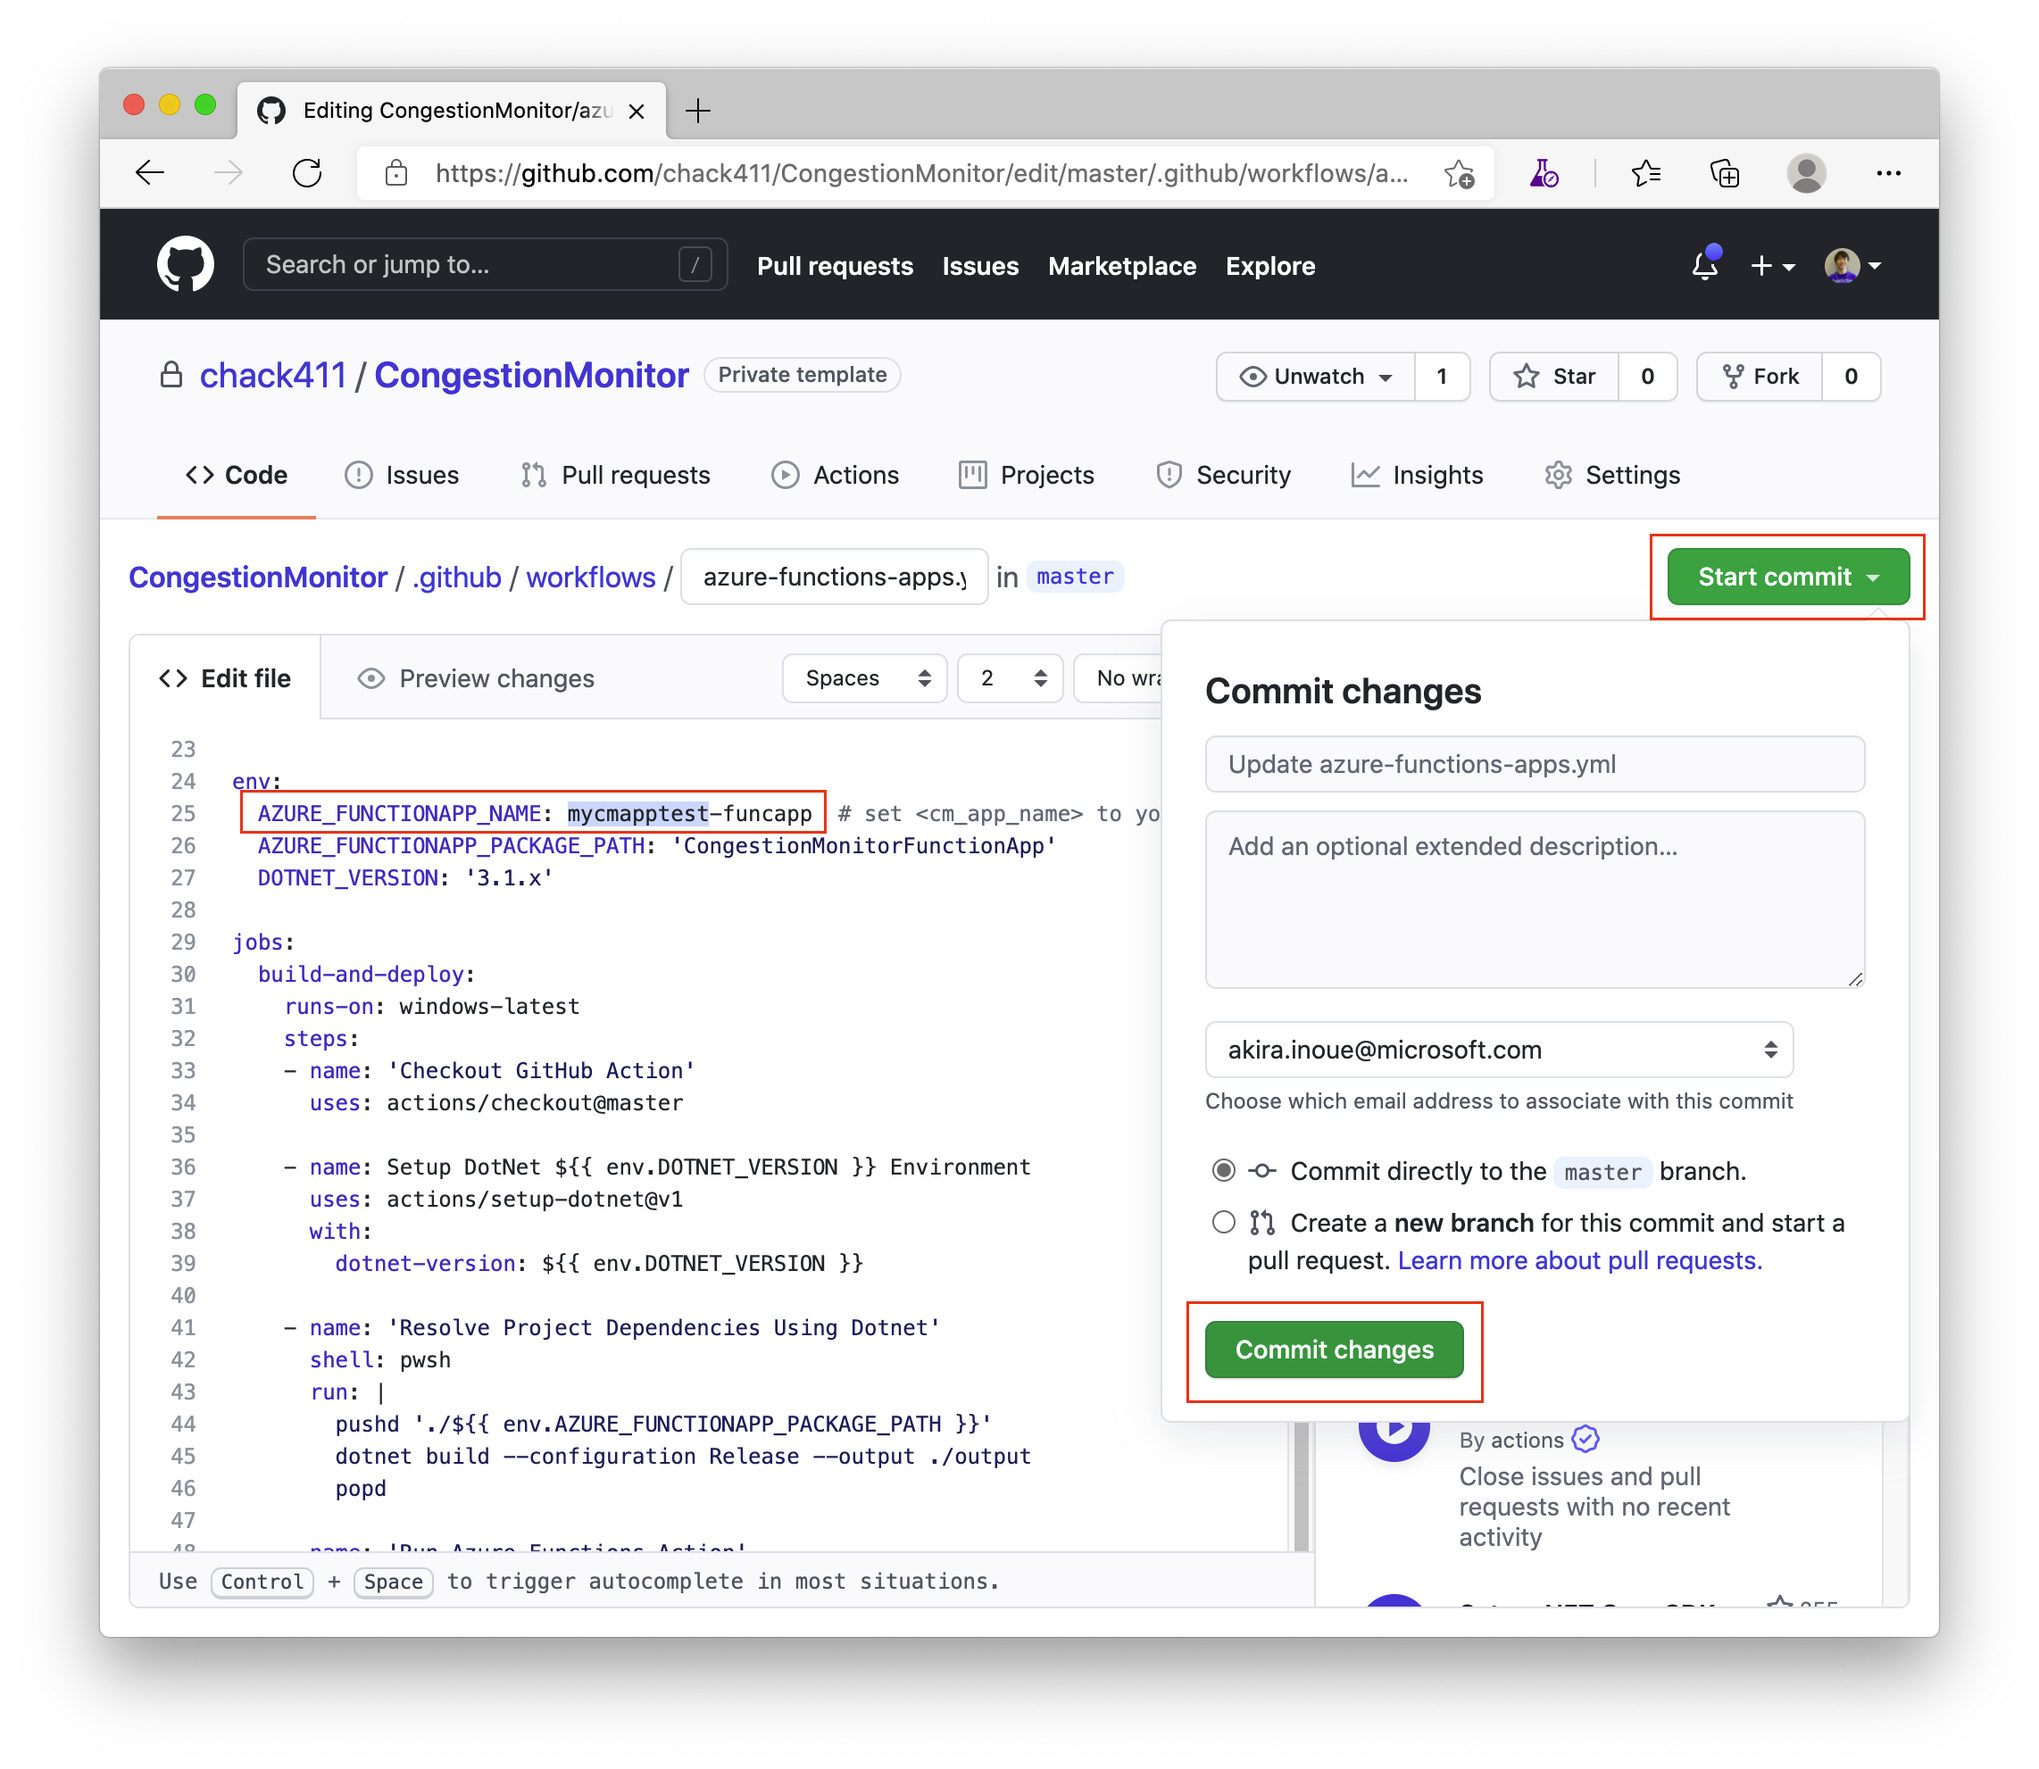
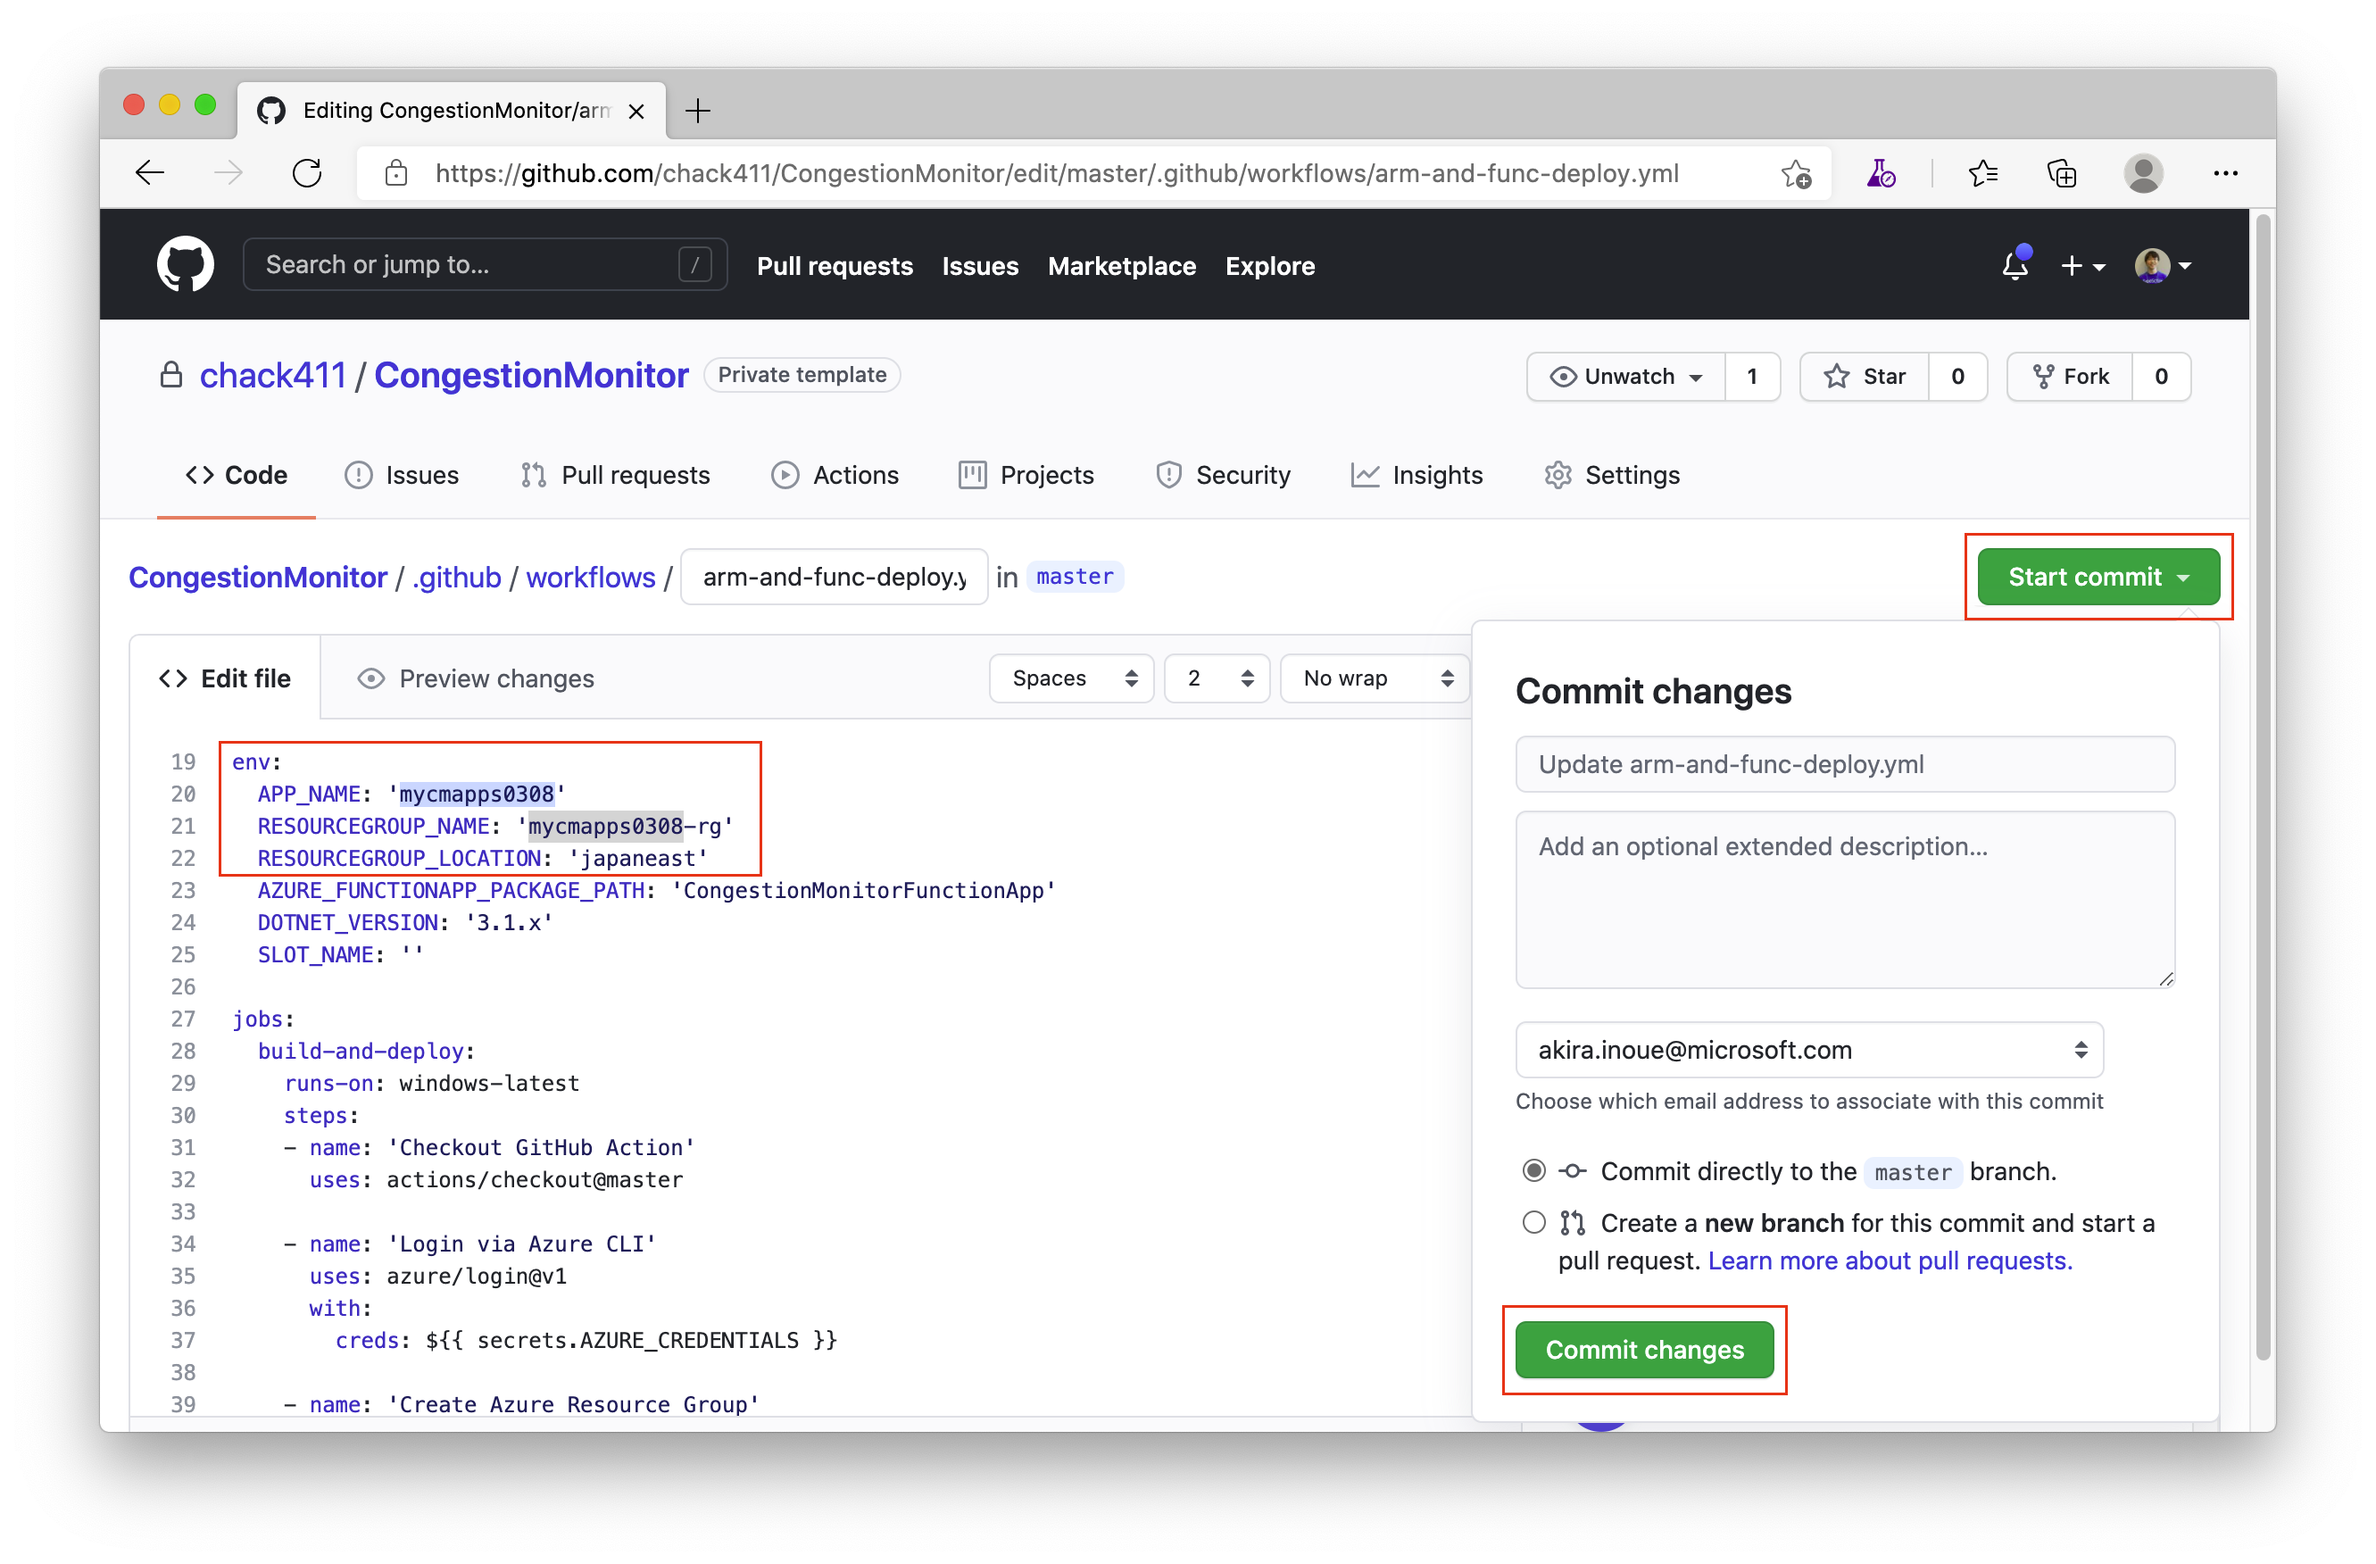
Add a new doc for arm and func deployment

diff --git a/Documentation/deploy-arm-and-function-app.md b/Documentation/deploy-arm-and-function-app.md
@@ -1,0 +1,175 @@
+## Prepare environments and deploy with ARM template
+
+Let's deploy Congestion Monitor applications using GitHub Actions and ARM Template.
+
+### Preparation
+
+- If you haven't had an Azure subscription yet, you can create an Azure free account at [Create your Azure free account today](https://azure.microsoft.com/en-us/free/).
+- If you haven't installed the Azure CLI, please see [Install the Azure CLI](https://docs.microsoft.com/en-us/cli/azure/install-azure-cli?view=azure-cli-latest) and setup it with your Azure subscription.
+- If you need more details about the login with the Azure CLI, please see [Sign in with Azure CLI](https://docs.microsoft.com/en-us/cli/azure/authenticate-azure-cli?view=azure-cli-latest).
+
+### Verify subscription
+
+Run the command `az login` and `az account list -o table`
+```sh
+az login
+
+az account list -o table
+
+Name                     CloudName    SubscriptionId                        State    IsDefault
+-----------------------  -----------  ------------------------------------  -------  -----------
+My primary subscription  AzureCloud   xxxxxxxxxx-xxxx-xxxx-xxxx-xxxxxxxxxx  Enabled  True
+Another sub1             AzureCloud   xxxxxxxxxx-xxxx-xxxx-xxxx-xxxxxxxxxx  Enabled  False
+Another sub2             AzureCloud   xxxxxxxxxx-xxxx-xxxx-xxxx-xxxxxxxxxx  Enabled  False
+```
+
+If you have more than a subscription, make sure that the subscription that you want to use is set as default using the subscription name:
+
+```sh
+az account set -s 'My primary subscription'
+```
+
+### Create a service principal with your Azure Subscription
+
+`arm-and-func-deploy.yml` in `.github\workflows` directory is used as a GitHub Actions workflow. It depends on a secret named `AZURE_CREDENTIALS` in your repository. The value of this secret is expected to be a JSON object that represents a service principal (an identifier for an application or process) that authenticates the workflow with Azure.
+
+You can use the `az ad sp create-for-rbac` command to create a service principal and assign a Contributor role as follows. Please replace {sp-name} with a suitable name for your service principal and replace {subscription-id} with your subscription ID (You can see your primary subscription information with `az account show` command).
+
+```sh
+az ad sp create-for-rbac \
+  --name {sp-name} --sdk-auth --role contributor \
+  --scopes /subscriptions/{subscription-id}
+```
+
+When complete, the az ad sp create-for-rbac command displays JSON output as follows.
+
+```json
+{
+  "clientId": "<GUID>",
+  "clientSecret": "<GUID>",
+  "subscriptionId": "<GUID>",
+  "tenantId": "<GUID>",
+  (...)
+}
+```
+
+You need to copy and keep this JSON output as text for the next step.
+
+See [Configure deployment credentials](https://github.com/marketplace/actions/azure-login#configure-deployment-credentials) for more details.
+
+> if you have an error when creating a service principal, and you don't have permission to create it, you need to ask the administrator to create the service principal for you.
+
+### Create a Secret with the servicde principal JSON output
+
+Open your GitHub repo of CongestionMonitor and access to `Secrets` in the `Settings` menu, and click `New repository secret`.
+
+![Create secret - 1](Images/cm_gh_secret.png)
+
+Set `AZURE_CREDENTIALS` in the `Name` textbox, paste the `service principal JSON output` that you had above in the `Value` textbox, and click `Add secret`.
+
+![Create secret - 2](Images/cm_gh_secret4.png)
+
+### Generate a personal access token (PAT) for GitHub API
+
+Before creating a deployment, you need to generate a GitHub personal access token (PAT) that will be used to access the GitHub API from Azure Static Web Apps deployment with ARM Template.
+
+Access to [Personal Access Tokens page](https://github.com/settings/tokens) in Developer settings at GitHub, and click `Generate new token` button. Then, input the token name in Note, select `repo` and `workflow` at `Select scopes` area, and click `Generate token` button.
+
+![Generate Access Token](Images/cm_gh_pat.png)
+
+You can see the new token only once. So, let's copy and keep it for the next step.
+
+![Generated Access Token](Images/cm_gh_pat2.png)
+
+### Create a Secret with the PAT for GitHub API
+
+Open your GitHub repo of CongestionMonitor and access to `Secrets` in the `Settings` menu, and click `New repository secret`.
+
+![Create secret - 1](Images/cm_gh_secret.png)
+
+Set `GH_PAT` in the `Name` textbox, paste `Personal Access Token` that you had above in the `Value` textbox, and click `Add secret`.
+
+![Create secret - 2](Images/cm_gh_secret3.png)
+
+### Set your APP_NAME to .env file
+
+Open `.env` file in `CongestionStaticWebVueApp` directory and set a suitable app name to `{APP_NAME}` of `VUE_APP_API_BASE_URL` value. The app name should be unique because it is used as base URL for your Azure Function App.
+
+```text
+VUE_APP_API_BASE_URL='https://{APP_NAME}-funcapp.azurewebsites.net'
+```
+
+### Commit changes and push your local repository to the GitHub repo.
+
+If you have cloned your repo to your local environment, entering the following commands, you make a change to the files on your computer, commit the changes locally, and push the commit to the repo on GitHub.
+
+```sh
+cd CongestionMonitor
+git add .
+git commit -m "update APP_NAME in .env file"
+git push -u origin master
+```
+
+> You can also use any development tools like Visual Studio Code or Visual Studio 2019 to commit changes and to push your repo to the repo on GitHub.
+
+### Set your APP_NAME to arm-and-func-deploy.yml file on GitHub repo
+
+Open `arm-and-func-deploy.yml` file at `.github\workflows` on GitHub and click `Edit this file` button to enter edit mode.
+
+![Update Workflow on GitHub - 1](Images/cm_gh_updateworkflow.png)
+
+Then, set `APP_NAME` value to your application's name the same as that you set at `.env` file in `CongestionStaticWebVueApp` directory. And also, you can set any resource group name and the Azure location that you hope.
+
+```yml
+env:
+  APP_NAME: '{app name here}'
+  RESOURCEGROUP_NAME: 'mycmapps-rg'
+  RESOURCEGROUP_LOCATION: 'japaneast'
+```
+
+Finally, click `Start commit` button and click `Commit changes` to save the modification.
+
+![Update Workflow on GitHub - 2](Images/cm_gh_updateworkflow2.png)
+
+Once it was updated, GitHub Actions runs the workflow, and the Azure resources and Function App will be deployed.
+
+![Run Workflow on GitHub - 1](Images/cm_run_actions.png)
+
+![Run Workflow on GitHub - 2](Images/cm_run_actions2.png)
+
+![Run Workflow on GitHub - 2](Images/cm_run_actions3.png)
+
+Once the deployment has been succeeded, you can see resources in the resource group used by the Congestion Monitor.
+
+![ARM Deployment](Images/cm_deployment.png)
+
+![Azure Resources](Images/cm_resources.png)
+
+And also, you can see parameters you need when configuring the camera console apps in the deployment outputs.
+
+![Deployment Outputs](Images/cm_deployment_outputs.png)
+
+
+---
+
+### Create a deployment and start to deploy
+
+OK, it's time to deploy with ARM template. Let's create a deployment from a local template file: `template.json`, using parameters from a local JSON file: `parameters.json`.
+
+```sh
+cd ARMTemplate
+
+az group create -g {yourResourceGroupName} -l japaneast
+
+az deployment group create \
+  --name {yourDeploymentName} \
+  --resource-group {yourResourceGroupName} \
+  --template-file template.json \
+  --parameters @parameters.json \
+  --parameters sites_cm_repositoryToken={GitHub personal access token here}
+```
+
+
+
+---
+[Home](https://github.com/chack411/CongestionMonitor) | [TOC](https://github.com/chack411/CongestionMonitor#deploy-and-run-with-this-repo-using-azure-cli-and-github-actions) | [Next](build-camera-console-app.md)

diff --git a/README.md b/README.md
@@ -35,7 +35,7 @@ This repo is setting up as a Template Repository. So, you can create a new GitHu
 After that, clone your repo on GitHub to your local environment and start to develop your own Congestion Monitor!
 
 ```sh
-git clone https://github.com/<yourRepoName>/CongestionMonitor.git
+git clone https://github.com/{yourGitHubAccountName}/{yourRepoName}.git
 ```
 
 ## Deploy and run with this repo using Azure CLI and GitHub Actions
